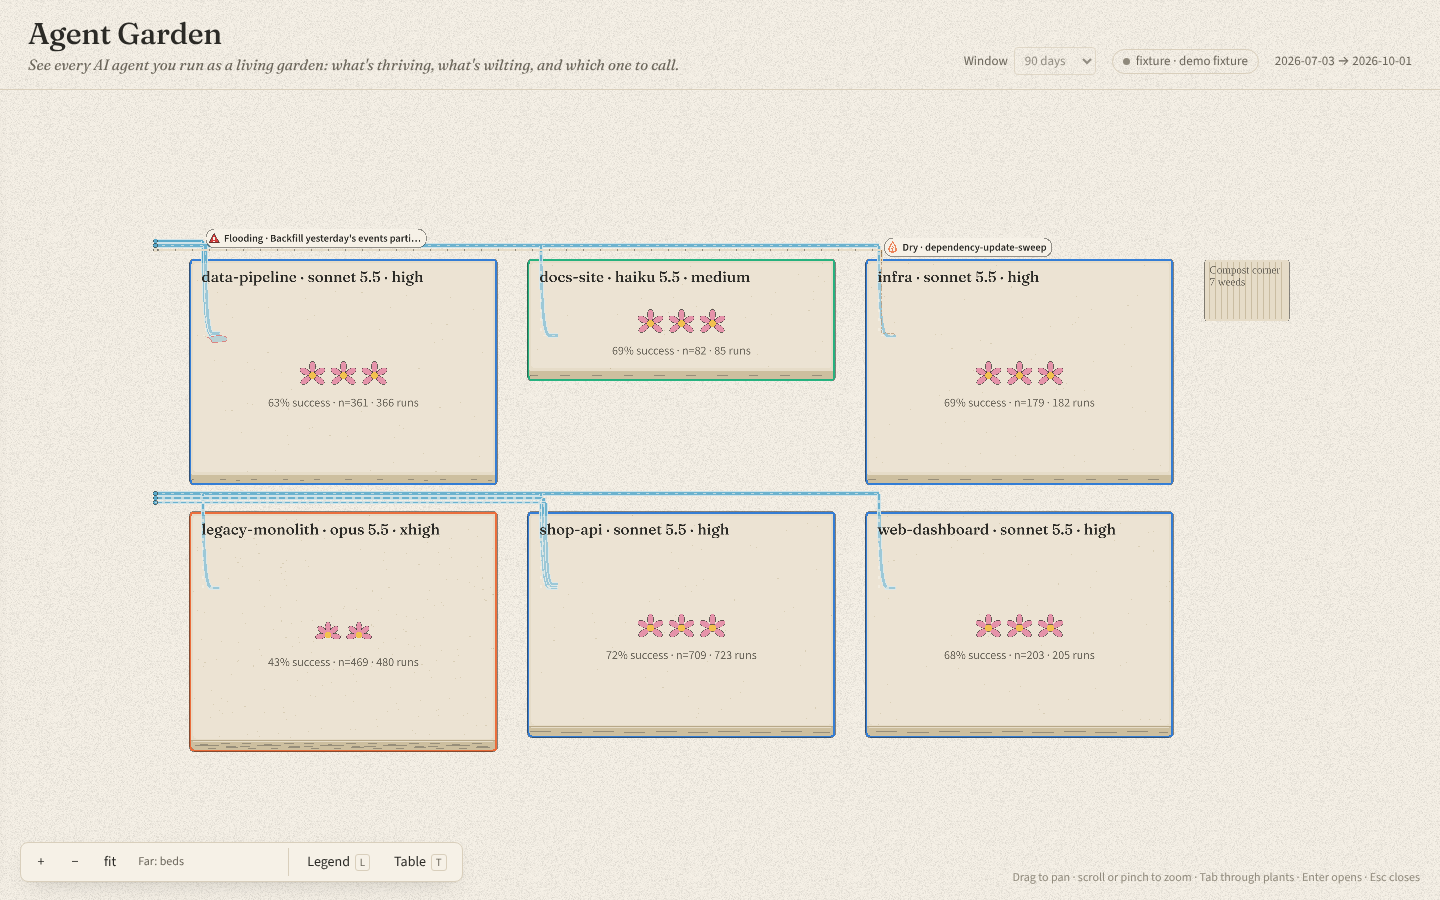
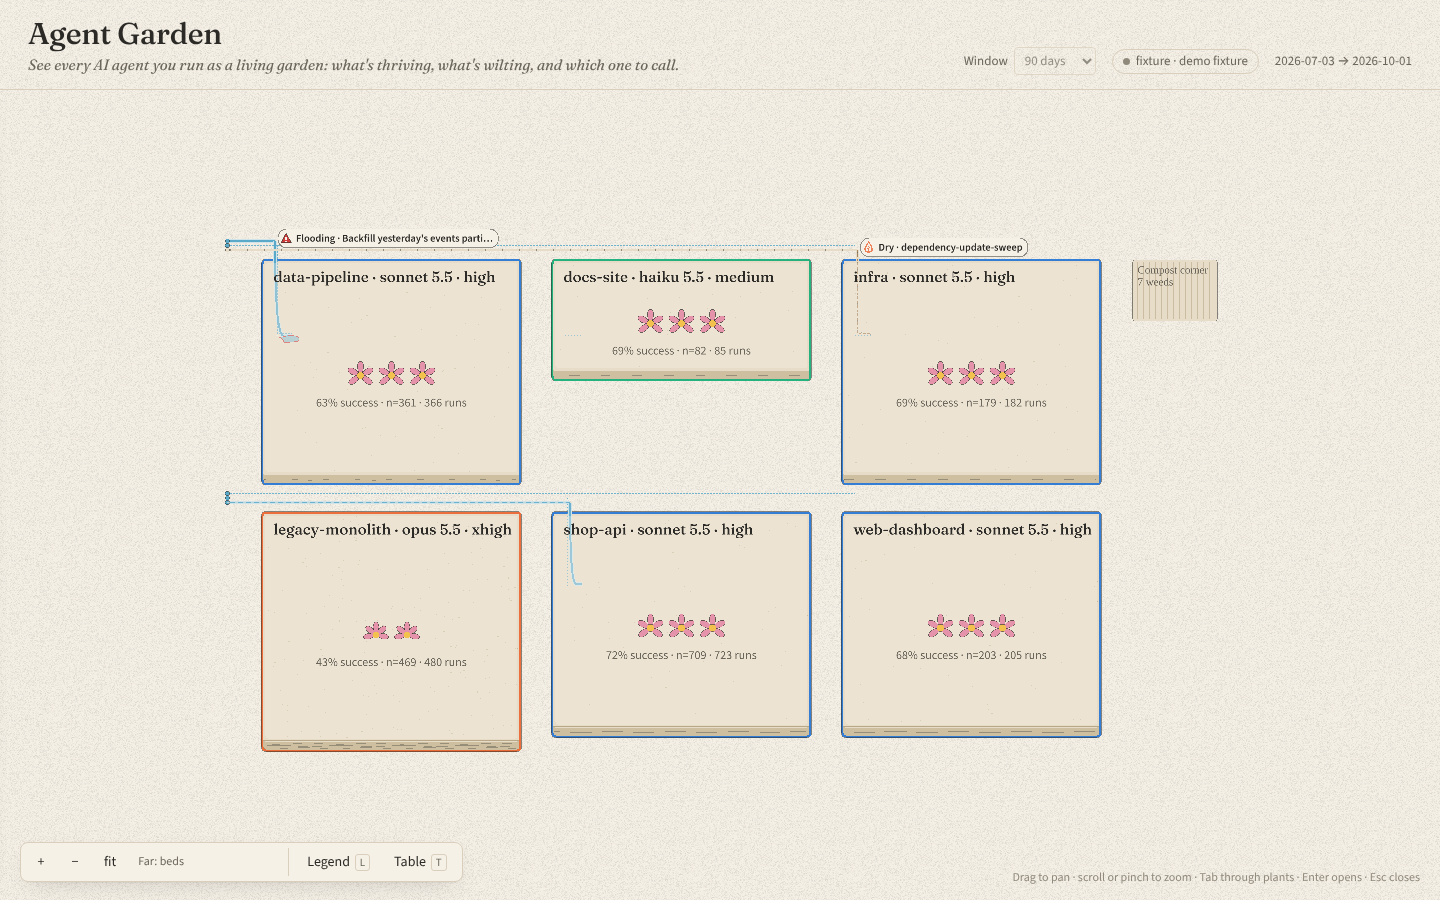
M3: review fixes, privacy gates, live and static verification
- Unrecorded loops (configured hooks) claim no flow rate: new
  LoopChannel.observed + irrigation.observed encoding, drawn thin/dotted
- Layout: agents in >=2 beds keep a fixed slot; bed-only agents pack after
  (PLAN 8 updated) - removes most empty soil, keeps cross-bed comparison
- build-output.test: no remote URLs in dist (allowlist + negative control);
  CI builds before testing
- garden export marks index.html as static so the app skips /api
- Verified in Chromium against garden serve (live API) and a plain static
  host: 25 plants, 0 console errors, 0 remote page requests
- PROGRESS.md: M3 verification with the 8 checklist and screenshots

Claude-Session: https://claude.ai/code/session_016XdqGPfJMbR6FAAUuN1qGg

diff --git a/apps/web/src/garden/layout.ts b/apps/web/src/garden/layout.ts
@@ -1,7 +1,8 @@
 /**
- * Pure garden layout. Beds are allotment plots in a grid; every agent has ONE global slot index
- * (main first, then alphabetical) and occupies that slot in every bed, so the same agent sits in the
- * same place in each bed. Beds leave empty slots for agents they don't have.
+ * Pure garden layout. Beds are allotment plots in a grid. Agents planted in two or more beds get ONE
+ * global slot index (main first, then alphabetical) and occupy that slot in every bed, so the same
+ * agent sits in the same place wherever it grows (the cross-bed comparison). Agents unique to a bed
+ * pack in after the shared slots, so beds don't fill up with empty soil.
  */
 import { plantHeight, type GardenView, type ID, type PlantSummary } from '@garden/core';
 import { BED_FACE, STEM_LENGTH } from './draw';
@@ -130,6 +131,32 @@ export function agentOrder(plants: readonly PlantSummary[]): AgentSlot[] {
   return list.map((p, slot) => ({ agentId: p.agentId, name: p.name, slot }));
 }
 
+/**
+ * Slot per plant: shared agents (in ≥ 2 beds) keep their global shared index in every bed; agents
+ * unique to a bed follow, packed, in global order.
+ */
+export function plantSlots(plants: readonly PlantSummary[]): Map<ID, number> {
+  const bedsPerAgent = new Map<ID, Set<ID>>();
+  for (const p of plants)
+    bedsPerAgent.set(p.agentId, (bedsPerAgent.get(p.agentId) ?? new Set()).add(p.bedId));
+  const order = agentOrder(plants);
+  const shared = order.filter((a) => (bedsPerAgent.get(a.agentId)?.size ?? 0) >= 2);
+  const sharedIdx = new Map(shared.map((a, i) => [a.agentId, i]));
+  const rank = new Map(order.map((a) => [a.agentId, a.slot]));
+  const out = new Map<ID, number>();
+  const byBed = new Map<ID, PlantSummary[]>();
+  for (const p of plants) byBed.set(p.bedId, [...(byBed.get(p.bedId) ?? []), p]);
+  for (const ps of byBed.values()) {
+    let next = shared.length;
+    for (const p of [...ps].sort(
+      (a, b) => (rank.get(a.agentId) ?? 0) - (rank.get(b.agentId) ?? 0),
+    )) {
+      out.set(p.id, sharedIdx.get(p.agentId) ?? next++);
+    }
+  }
+  return out;
+}
+
 export function columnsFor(nAgents: number): number {
   return Math.max(
     1,
@@ -146,9 +173,9 @@ export function stemTop(p: PlantSummary): number {
 }
 
 export function computeLayout(view: GardenView): GardenLayout {
-  const agents = agentOrder(view.plants);
-  const slotOf = new Map(agents.map((a) => [a.agentId, a.slot]));
-  const cols = columnsFor(agents.length);
+  const slotOfPlant = plantSlots(view.plants);
+  const maxSlots = Math.max(1, ...slotOfPlant.values()) + 1;
+  const cols = columnsFor(maxSlots);
   const plantById = new Map(view.plants.map((p) => [p.id, p]));
   const plantsByBed = new Map<ID, PlantSummary[]>();
   for (const p of view.plants) {
@@ -164,7 +191,7 @@ export function computeLayout(view: GardenView): GardenLayout {
   const bedW = BED_PAD_X * 2 + cols * SLOT_W;
   const sizes = view.beds.map((b) => {
     const ps = plantsByBed.get(b.id) ?? [];
-    const maxSlot = ps.reduce((m, p) => Math.max(m, slotOf.get(p.agentId) ?? 0), 0);
+    const maxSlot = ps.reduce((m, p) => Math.max(m, slotOfPlant.get(p.id) ?? 0), 0);
     const rows = Math.max(1, Math.ceil((maxSlot + 1) / cols));
     const weeds = weedsByBed.get(b.id) ?? 0;
     const weedRows = weeds === 0 ? 0 : Math.ceil(weeds / Math.max(1, Math.floor((bedW - 40) / 20)));
@@ -224,10 +251,10 @@ export function computeLayout(view: GardenView): GardenLayout {
   const focusOrder: ID[] = [];
   for (const bed of beds) {
     const ps = [...(plantsByBed.get(bed.bedId) ?? [])].sort(
-      (a, b) => (slotOf.get(a.agentId) ?? 0) - (slotOf.get(b.agentId) ?? 0),
+      (a, b) => (slotOfPlant.get(a.id) ?? 0) - (slotOfPlant.get(b.id) ?? 0),
     );
     for (const p of ps) {
-      const slot = slotOf.get(p.agentId) ?? 0;
+      const slot = slotOfPlant.get(p.id) ?? 0;
       const col = slot % cols;
       const row = Math.floor(slot / cols);
       const x = bed.x + BED_PAD_X + col * SLOT_W + SLOT_W / 2;
@@ -375,7 +402,7 @@ export function computeLayout(view: GardenView): GardenLayout {
   const width = (compost ? compost.x + compost.w : gridRight) + MARGIN_RIGHT;
   const height = Math.max(y, compost ? compost.y + compost.h : 0) + MARGIN_BOTTOM;
   return {
-    agents,
+    agents: agentOrder(view.plants),
     cols,
     beds,
     plants,

diff --git a/apps/web/src/build-output.test.ts b/apps/web/src/build-output.test.ts
@@ -1,0 +1,46 @@
+/**
+ * Privacy gate: the built app must not reference remote resources. URL-shaped strings are allowed
+ * only if they are inert identifiers (XML namespaces, React's error-doc link, a Pixi constant).
+ * Runtime requests are separately checked by the e2e suite (any non-127.0.0.1 request fails it).
+ */
+import { existsSync, readdirSync, readFileSync, statSync } from 'node:fs';
+import { join } from 'node:path';
+import { fileURLToPath } from 'node:url';
+import { describe, expect, it } from 'vitest';
+
+const DIST = fileURLToPath(new URL('../dist', import.meta.url));
+const ALLOWED = [
+  /^http:\/\/www\.w3\.org\/(1999\/xlink|2000\/svg|XML\/1998\/namespace|1998\/Math\/MathML)$/,
+  /^https:\/\/react\.dev\/errors\/$/,
+  /^http:\/\/www\.pixijs\.com\/$/,
+];
+
+function files(dir: string): string[] {
+  return readdirSync(dir).flatMap((f) => {
+    const p = join(dir, f);
+    return statSync(p).isDirectory() ? files(p) : [p];
+  });
+}
+
+describe.skipIf(!existsSync(DIST))('build output (apps/web/dist)', () => {
+  const text = files(DIST)
+    .filter((f) => /\.(js|css|html|json)$/.test(f))
+    .map((f) => ({ f, s: readFileSync(f, 'utf8') }));
+
+  it('contains no URL strings outside the inert allowlist', () => {
+    const bad = text.flatMap(({ f, s }) =>
+      [...s.matchAll(/https?:\/\/[A-Za-z0-9._~:/?#@!$&'*+,;=%-]+/g)]
+        .map((m) => m[0].replace(/["'`)\\]+$/, ''))
+        .filter((u) => !ALLOWED.some((re) => re.test(u)))
+        .map((u) => `${f.replace(DIST, '')}: ${u}`),
+    );
+    expect(bad).toEqual([]);
+  });
+
+  it('loads nothing remote from HTML or CSS (src/href/url())', () => {
+    for (const { f, s } of text) {
+      if (f.endsWith('.html')) expect(s).not.toMatch(/(src|href)\s*=\s*["']?(https?:)?\/\//);
+      if (f.endsWith('.css')) expect(s).not.toMatch(/url\(\s*["']?(https?:)?\/\//);
+    }
+  });
+});

diff --git a/packages/server/src/export.ts b/packages/server/src/export.ts
@@ -1,4 +1,4 @@
-import { cpSync, existsSync, mkdirSync, writeFileSync } from 'node:fs';
+import { cpSync, existsSync, mkdirSync, readFileSync, writeFileSync } from 'node:fs';
 import { join } from 'node:path';
 import { legend } from '@garden/core';
 import { gardenView, type AppOptions } from './app';
@@ -8,7 +8,22 @@ import { gardenView, type AppOptions } from './app';
  * (no server). The web app falls back to these files when /api is unavailable.
  */
 export function exportStatic(opts: AppOptions, outDir: string, days = 90): { files: string[] } {
-  if (opts.webDist && existsSync(opts.webDist)) cpSync(opts.webDist, outDir, { recursive: true });
+  if (opts.webDist && existsSync(opts.webDist)) {
+    cpSync(opts.webDist, outDir, { recursive: true });
+    // Tell the app it is a static export so it reads data/ directly instead of probing /api.
+    const index = join(outDir, 'index.html');
+    if (existsSync(index)) {
+      const html = readFileSync(index, 'utf8');
+      if (!html.includes('agent-garden-source'))
+        writeFileSync(
+          index,
+          html.replace(
+            '<head>',
+            '<head>\n    <meta name="agent-garden-source" content="static" />',
+          ),
+        );
+    }
+  }
   const dataDir = join(outDir, 'data');
   mkdirSync(dataDir, { recursive: true });
   const files = [join(dataDir, 'garden.json'), join(dataDir, 'legend.json')];

diff --git a/apps/web/src/describe.ts b/apps/web/src/describe.ts
@@ -9,6 +9,7 @@ import {
   beeCount,
   careCardSize,
   irrigationFlow,
+  irrigationObserved,
   irrigationState,
   plantBloom,
   plantDroop,
@@ -233,15 +234,21 @@ export function describe(view: GardenView, t: HoverTarget): Description | null {
             value: l.state,
             level: lv(irrigationState.levels, irrigationState.level(l)),
           },
-          {
-            label: 'Runs per day',
-            value: `${l.runsPerDay.toFixed(2)}/day`,
-            level: lv(irrigationFlow.levels, irrigationFlow.level(l)),
-          },
+          l.observed === false
+            ? {
+                label: 'Runs per day',
+                value: 'not recorded (configured hook)',
+                level: lv(irrigationObserved.levels, 1),
+              }
+            : {
+                label: 'Runs per day',
+                value: `${l.runsPerDay.toFixed(2)}/day`,
+                level: lv(irrigationFlow.levels, irrigationFlow.level(l)),
+              },
           { label: 'Waters', value: targets },
           ...l.evidence.map((e, i) => ({ label: i === 0 ? 'Evidence' : '', value: e })),
         ],
-        how: [irrigationFlow, irrigationState].map((e) => ({
+        how: [irrigationFlow, irrigationState, irrigationObserved].map((e) => ({
           channel: `${e.channel}: ${e.metric}`,
           text: e.howComputed,
         })),

diff --git a/packages/server/src/garden.ts b/packages/server/src/garden.ts
@@ -211,13 +211,16 @@ export function buildLoops(
         .filter((id) => plantIds.has(id));
     }
     let runsPerDay = runs.length / windowDays;
+    let observed = true;
     let state: LoopChannel['state'] = 'flowing';
 
     if (l.triggerKind === 'hook' && runs.length === 0) {
       const bedRuns = data.runs.filter((r) => l.targets.familyIds.includes(r.familyId)).length;
-      runsPerDay = bedRuns / windowDays;
+      runsPerDay = 0;
+      observed = false;
       evidence.push(
-        `Configured hook (${l.triggerDetail}). Individual executions are not recorded in transcripts, so flow = runs per day in the beds where it is active (an upper bound).`,
+        `Configured hook (${l.triggerDetail}). Its executions are not recorded in transcripts, so no flow rate is claimed. ` +
+          `Upper bound: at most ${(bedRuns / windowDays).toFixed(1)} runs/day happen in the beds where it is active.`,
       );
     } else {
       evidence.push(
@@ -269,6 +272,7 @@ export function buildLoops(
       tier: l.tier as LoopChannel['tier'],
       targetPlantIds: targets,
       runsPerDay,
+      observed,
       state,
       evidence,
     });

diff --git a/packages/core/src/encodings.ts b/packages/core/src/encodings.ts
@@ -158,6 +158,18 @@ export const irrigationFlow: Encoding<LoopChannel> = {
   level: (l) => binIndex(l.runsPerDay, [0.2, 1, 5]),
 };
 
+export const irrigationObserved: Encoding<LoopChannel> = {
+  id: 'irrigation.observed',
+  element: 'irrigation',
+  channel: 'Solid vs dotted channel',
+  metric: 'Whether loop executions are recorded',
+  howComputed:
+    'Dotted: the loop is configured (e.g. a settings.json hook) but its executions are not recorded in transcripts, so no flow rate is claimed.',
+  action: 'Dotted channels are wired but unmeasured. Check the hook itself if you rely on it.',
+  levels: ['Solid: executions recorded', 'Dotted: configured, not recorded'],
+  level: (l) => (l.observed ? 0 : 1),
+};
+
 const LOOP_STATES = ['flowing', 'flooding', 'dry'] as const;
 export const irrigationState: Encoding<LoopChannel> = {
   id: 'irrigation.state',
@@ -242,6 +254,7 @@ export const ENCODINGS = [
   careCardSize,
   irrigationFlow,
   irrigationState,
+  irrigationObserved,
   beeCount,
   weedKind,
   playbookGate,

diff --git a/apps/web/src/garden/renderer.ts b/apps/web/src/garden/renderer.ts
@@ -378,7 +378,7 @@ export class GardenRenderer {
       const flow = irrigationFlow.level(loop);
       const state = irrigationState.level(loop);
       const g = new Graphics();
-      for (const path of route.paths) drawChannel(g, path, flow, state);
+      for (const path of route.paths) drawChannel(g, path, flow, state, loop.observed !== false);
       for (const s of route.sources) {
         g.circle(s.x, s.y, 4.5).fill({ color: state === 2 ? SOIL.fill : WATER.flow });
         g.stroke({ color: INK.primary, width: 1, alpha: 0.6 });
@@ -406,7 +406,8 @@ export class GardenRenderer {
         }
       }
       this.layers.water.addChild(box);
-      if (state !== 2) this.flowNodes.push({ paths: route.paths, level: flow });
+      if (state !== 2 && loop.observed !== false)
+        this.flowNodes.push({ paths: route.paths, level: flow });
 
       // Flooding: overflow puddle at each target + icon + label. Dry: icon + label.
       if (state > 0) {

diff --git a/packages/server/src/app.test.ts b/packages/server/src/app.test.ts
@@ -1,4 +1,4 @@
-import { cpSync, mkdtempSync, rmSync } from 'node:fs';
+import { cpSync, mkdirSync, mkdtempSync, readFileSync, rmSync, writeFileSync } from 'node:fs';
 import { tmpdir } from 'node:os';
 import { join } from 'node:path';
 import type { AddressInfo } from 'node:net';
@@ -76,5 +76,18 @@ describe('static export', () => {
       '/data/garden.json',
       '/data/legend.json',
     ]);
+  });
+  it('copies the web app and marks index.html as a static export', () => {
+    const web = join(dir, 'fake-dist');
+    mkdirSync(web, { recursive: true });
+    writeFileSync(
+      join(web, 'index.html'),
+      '<!doctype html><html><head><title>x</title></head></html>',
+    );
+    const out = join(dir, 'export2');
+    exportStatic({ store, webDist: web }, out);
+    expect(readFileSync(join(out, 'index.html'), 'utf8')).toContain(
+      'name="agent-garden-source" content="static"',
+    );
   });
 });

diff --git a/apps/web/src/garden/draw.ts b/apps/web/src/garden/draw.ts
@@ -621,8 +621,20 @@ export function drawStone(pen: Pen, x: number, y: number, r: number): void {
 }
 
 /** Static channel for a loop by irrigation.flow and irrigation.state levels (0 flowing, 1 flooding, 2 dry). */
-export function drawChannel(pen: Pen, pts: Pt[], flowLevel: number, stateLevel: number): void {
+export function drawChannel(
+  pen: Pen,
+  pts: Pt[],
+  flowLevel: number,
+  stateLevel: number,
+  observed = true,
+): void {
   const w = CHANNEL_WIDTH[flowLevel] ?? CHANNEL_WIDTH[0];
+  if (!observed) {
+    // configured but unmeasured: a thin dotted water line, no flow claimed
+    dashPolyline(pen, pts, 2, 4);
+    pen.stroke({ color: WATER.flow, width: 1.6, alpha: 0.85, cap: 'round' });
+    return;
+  }
   if (stateLevel === 2) {
     // dry: an empty, cracked ditch with no water
     strokePolyline(pen, pts);

diff --git a/apps/web/src/data/load.ts b/apps/web/src/data/load.ts
@@ -57,7 +57,12 @@ export async function loadGarden(days: number, search = window.location.search):
       detail: 'synthetic, 500 plants',
     };
   }
-  const live = await attempt(`/api/garden?days=${days}`);
+  // `garden export` marks its index.html, so a static host never probes a non-existent /api.
+  const isStatic =
+    document.querySelector('meta[name="agent-garden-source"][content="static"]') !== null;
+  const live = isStatic
+    ? new Error('static export (no API)')
+    : await attempt(`/api/garden?days=${days}`);
   if (live instanceof Error === false) return { view: live, source: 'api', detail: `${days} days` };
   const exported = await attempt('./data/garden.json');
   if (exported instanceof Error === false)

diff --git a/apps/web/e2e/garden.spec.ts b/apps/web/e2e/garden.spec.ts
@@ -1,3 +1,4 @@
+import { ENCODINGS } from '@garden/core';
 import { resolve } from 'node:path';
 import { expect, test, type Page } from '@playwright/test';
 
@@ -90,7 +91,7 @@ test('legend (L) lists every encoding with swatches; table (T) shows the same nu
   await page.keyboard.press('l');
   const legend = page.getByRole('complementary', { name: 'Legend' });
   await expect(legend).toBeVisible();
-  expect(await legend.locator('[data-encoding-id]').count()).toBe(16);
+  expect(await legend.locator('[data-encoding-id]').count()).toBe(ENCODINGS.length);
   await expect(legend).toContainText('ambient, no meaning');
   await page.waitForTimeout(300);
   await page.screenshot({ path: `${SHOTS}/m3-legend.png` });

diff --git a/apps/web/src/garden/swatches.ts b/apps/web/src/garden/swatches.ts
@@ -90,6 +90,17 @@ export const SWATCHES: Record<string, Swatch> = {
       if (l > 0) drawIcon(pen, 62, -6, l === 1 ? 'flood' : 'dry');
     },
   },
+  'irrigation.observed': {
+    frame: { x: 0, y: -10, w: 64, h: 20 },
+    draw: (pen, l) => {
+      const pts = [
+        { x: 4, y: 0 },
+        { x: 60, y: 0 },
+      ];
+      drawChannel(pen, pts, 1, 0, l === 0);
+      if (l === 0) drawFlow(pen, pts, 1, 0);
+    },
+  },
   'bee.count': {
     frame: { x: 0, y: -22, w: 70, h: 30 },
     draw: (pen, l) => {
